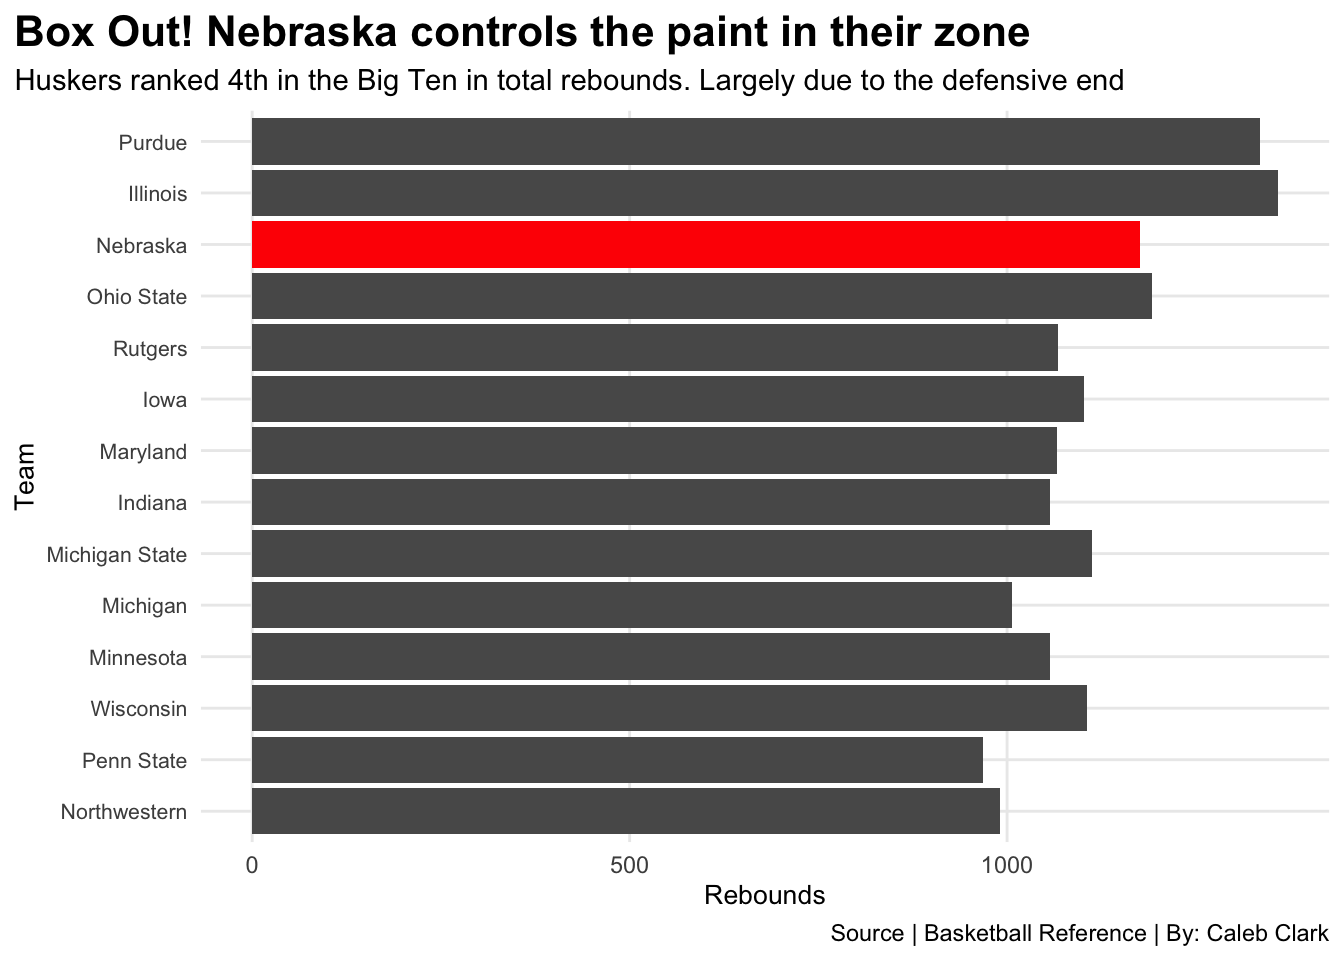
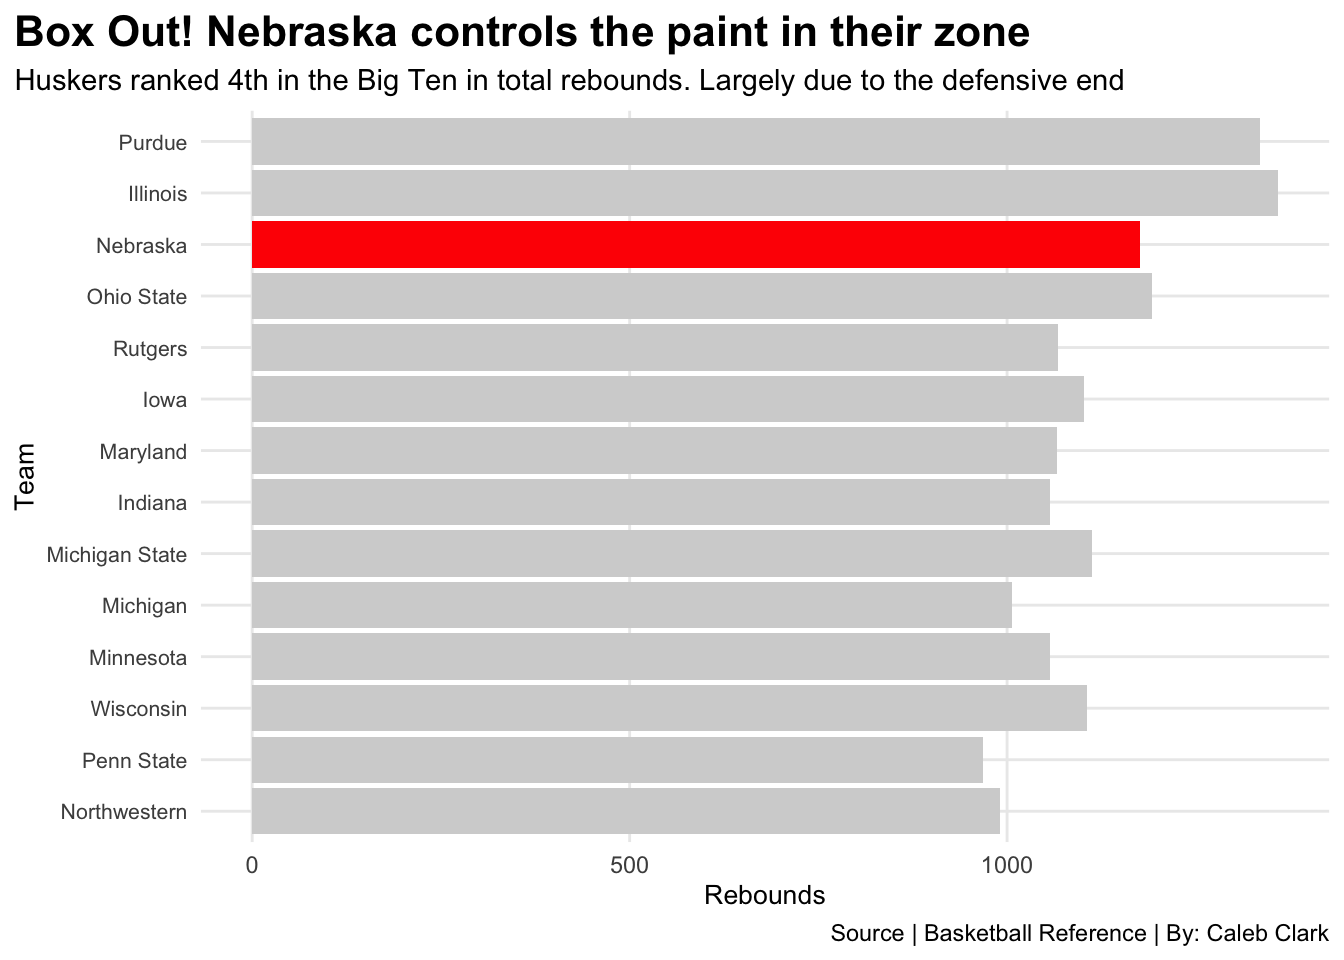
updated graphs

diff --git a/posts/husker-basketball-rebounding-struggles/index.html b/posts/husker-basketball-rebounding-struggles/index.html
@@ -292,7 +292,7 @@ pre > code.sourceCode > span > a:first-child::before { text-decoration: underlin
 <span id="cb3-7"><a href="#cb3-7" aria-hidden="true" tabindex="-1"></a>  )</span>
 <span id="cb3-8"><a href="#cb3-8" aria-hidden="true" tabindex="-1"></a></span>
 <span id="cb3-9"><a href="#cb3-9" aria-hidden="true" tabindex="-1"></a><span class="fu">ggplot</span>() <span class="sc">+</span> </span>
-<span id="cb3-10"><a href="#cb3-10" aria-hidden="true" tabindex="-1"></a>  <span class="fu">geom_bar</span>(<span class="at">data=</span>big10, <span class="fu">aes</span>(<span class="at">x=</span><span class="fu">reorder</span>(Team, TeamTotalRebounds), <span class="at">weight=</span>TeamTotalRebounds)) <span class="sc">+</span> </span>
+<span id="cb3-10"><a href="#cb3-10" aria-hidden="true" tabindex="-1"></a>  <span class="fu">geom_bar</span>(<span class="at">data=</span>big10, <span class="fu">aes</span>(<span class="at">x=</span><span class="fu">reorder</span>(Team, TeamTotalRebounds), <span class="at">weight=</span>TeamTotalRebounds), <span class="at">fill=</span><span class="st">"lightgrey"</span>) <span class="sc">+</span> </span>
 <span id="cb3-11"><a href="#cb3-11" aria-hidden="true" tabindex="-1"></a>  <span class="fu">geom_bar</span>(<span class="at">data=</span>huskers, <span class="fu">aes</span>(<span class="at">x=</span><span class="fu">reorder</span>(Team, TeamTotalRebounds), <span class="at">weight=</span>TeamTotalRebounds), <span class="at">fill=</span><span class="st">"red"</span>) <span class="sc">+</span></span>
 <span id="cb3-12"><a href="#cb3-12" aria-hidden="true" tabindex="-1"></a>  <span class="fu">coord_flip</span>() <span class="sc">+</span></span>
 <span id="cb3-13"><a href="#cb3-13" aria-hidden="true" tabindex="-1"></a> <span class="fu">labs</span>(</span>
@@ -330,7 +330,7 @@ pre > code.sourceCode > span > a:first-child::before { text-decoration: underlin
 <details class="code-fold">
 <summary>Code</summary>
 <div class="sourceCode cell-code" id="cb4"><pre class="sourceCode r code-with-copy"><code class="sourceCode r"><span id="cb4-1"><a href="#cb4-1" aria-hidden="true" tabindex="-1"></a><span class="fu">ggplot</span>() <span class="sc">+</span> </span>
-<span id="cb4-2"><a href="#cb4-2" aria-hidden="true" tabindex="-1"></a>  <span class="fu">geom_bar</span>(<span class="at">data=</span>big10, <span class="fu">aes</span>(<span class="at">x=</span><span class="fu">reorder</span>(Team, TeamOffRebounds), <span class="at">weight=</span>TeamOffRebounds)) <span class="sc">+</span> </span>
+<span id="cb4-2"><a href="#cb4-2" aria-hidden="true" tabindex="-1"></a>  <span class="fu">geom_bar</span>(<span class="at">data=</span>big10, <span class="fu">aes</span>(<span class="at">x=</span><span class="fu">reorder</span>(Team, TeamOffRebounds), <span class="at">weight=</span>TeamOffRebounds), <span class="at">fill=</span><span class="st">"lightgrey"</span>) <span class="sc">+</span> </span>
 <span id="cb4-3"><a href="#cb4-3" aria-hidden="true" tabindex="-1"></a>  <span class="fu">geom_bar</span>(<span class="at">data=</span>huskers, <span class="fu">aes</span>(<span class="at">x=</span><span class="fu">reorder</span>(Team, TeamOffRebounds), <span class="at">weight=</span>TeamOffRebounds), <span class="at">fill=</span><span class="st">"red"</span>) <span class="sc">+</span></span>
 <span id="cb4-4"><a href="#cb4-4" aria-hidden="true" tabindex="-1"></a>  <span class="fu">coord_flip</span>() <span class="sc">+</span></span>
 <span id="cb4-5"><a href="#cb4-5" aria-hidden="true" tabindex="-1"></a> <span class="fu">labs</span>(</span>
@@ -414,7 +414,7 @@ pre > code.sourceCode > span > a:first-child::before { text-decoration: underlin
 <span id="cb5-45"><a href="#cb5-45" aria-hidden="true" tabindex="-1"></a>rebound_totals<span class="ot">&lt;-</span>ncaa_rebounds <span class="sc">%&gt;%</span> <span class="fu">inner_join</span>(ncaa_rebounds, <span class="at">by=</span><span class="fu">c</span>(<span class="st">"Team"</span>))</span>
 <span id="cb5-46"><a href="#cb5-46" aria-hidden="true" tabindex="-1"></a></span>
 <span id="cb5-47"><a href="#cb5-47" aria-hidden="true" tabindex="-1"></a><span class="fu">ggplot</span>() <span class="sc">+</span> </span>
-<span id="cb5-48"><a href="#cb5-48" aria-hidden="true" tabindex="-1"></a>  <span class="fu">geom_point</span>(<span class="at">data=</span>ncaa_rebounds, <span class="fu">aes</span>(<span class="at">x=</span>Total_Rebounds, <span class="at">y=</span>Total_Offensive_Rebounds),<span class="at">color=</span><span class="st">"grey"</span>)<span class="sc">+</span></span>
+<span id="cb5-48"><a href="#cb5-48" aria-hidden="true" tabindex="-1"></a>  <span class="fu">geom_point</span>(<span class="at">data=</span>ncaa_rebounds, <span class="fu">aes</span>(<span class="at">x=</span>Total_Rebounds, <span class="at">y=</span>Total_Offensive_Rebounds),<span class="at">color=</span><span class="st">"lightgrey"</span>)<span class="sc">+</span></span>
 <span id="cb5-49"><a href="#cb5-49" aria-hidden="true" tabindex="-1"></a>  <span class="fu">geom_point</span>(<span class="at">data =</span> top_teams, <span class="fu">aes</span>(<span class="at">x=</span>Total_Rebounds, <span class="at">y=</span>Total_Offensive_Rebounds),<span class="at">color=</span><span class="st">"black"</span>)<span class="sc">+</span></span>
 <span id="cb5-50"><a href="#cb5-50" aria-hidden="true" tabindex="-1"></a> <span class="fu">geom_smooth</span>(<span class="at">data =</span> rebound_totals, <span class="fu">aes</span>(<span class="at">x=</span>Total_Rebounds.x, <span class="at">y=</span> Total_Offensive_Rebounds.y),<span class="at">method =</span> <span class="st">"lm"</span>, <span class="at">se=</span><span class="cn">FALSE</span>)<span class="sc">+</span></span>
 <span id="cb5-51"><a href="#cb5-51" aria-hidden="true" tabindex="-1"></a>   <span class="fu">geom_text</span>(<span class="at">data=</span>top_teams, <span class="fu">aes</span>(<span class="at">x=</span>Total_Rebounds, <span class="at">y=</span>Total_Offensive_Rebounds, <span class="at">label=</span>Team))<span class="sc">+</span></span>

diff --git a/index.html b/index.html
@@ -210,7 +210,7 @@ window.Quarto = {
 
 <div class="quarto-listing quarto-listing-container-default" id="listing-listing">
 <div class="list quarto-listing-default">
-<div class="quarto-post image-right" data-index="0" data-categories="bmNhYSxiYXNrZXRiYWxsLGh1c2tlcnM=" data-listing-date-sort="1731823200000" data-listing-file-modified-sort="1731979301077" data-listing-date-modified-sort="NaN" data-listing-reading-time-sort="9" data-listing-word-count-sort="1799">
+<div class="quarto-post image-right" data-index="0" data-categories="bmNhYSxiYXNrZXRiYWxsLGh1c2tlcnM=" data-listing-date-sort="1731823200000" data-listing-file-modified-sort="1732029124660" data-listing-date-modified-sort="NaN" data-listing-reading-time-sort="10" data-listing-word-count-sort="1801">
 <div class="thumbnail">
 <p><a href="./posts/husker-basketball-rebounding-struggles/index.html" class="no-external"></a></p><a href="./posts/husker-basketball-rebounding-struggles/index.html" class="no-external">
 <p class="card-img-top"><img src="posts/husker-basketball-rebounding-struggles/index_files/figure-html/unnamed-chunk-1-1.png"  class="thumbnail-image card-img"/></p>
